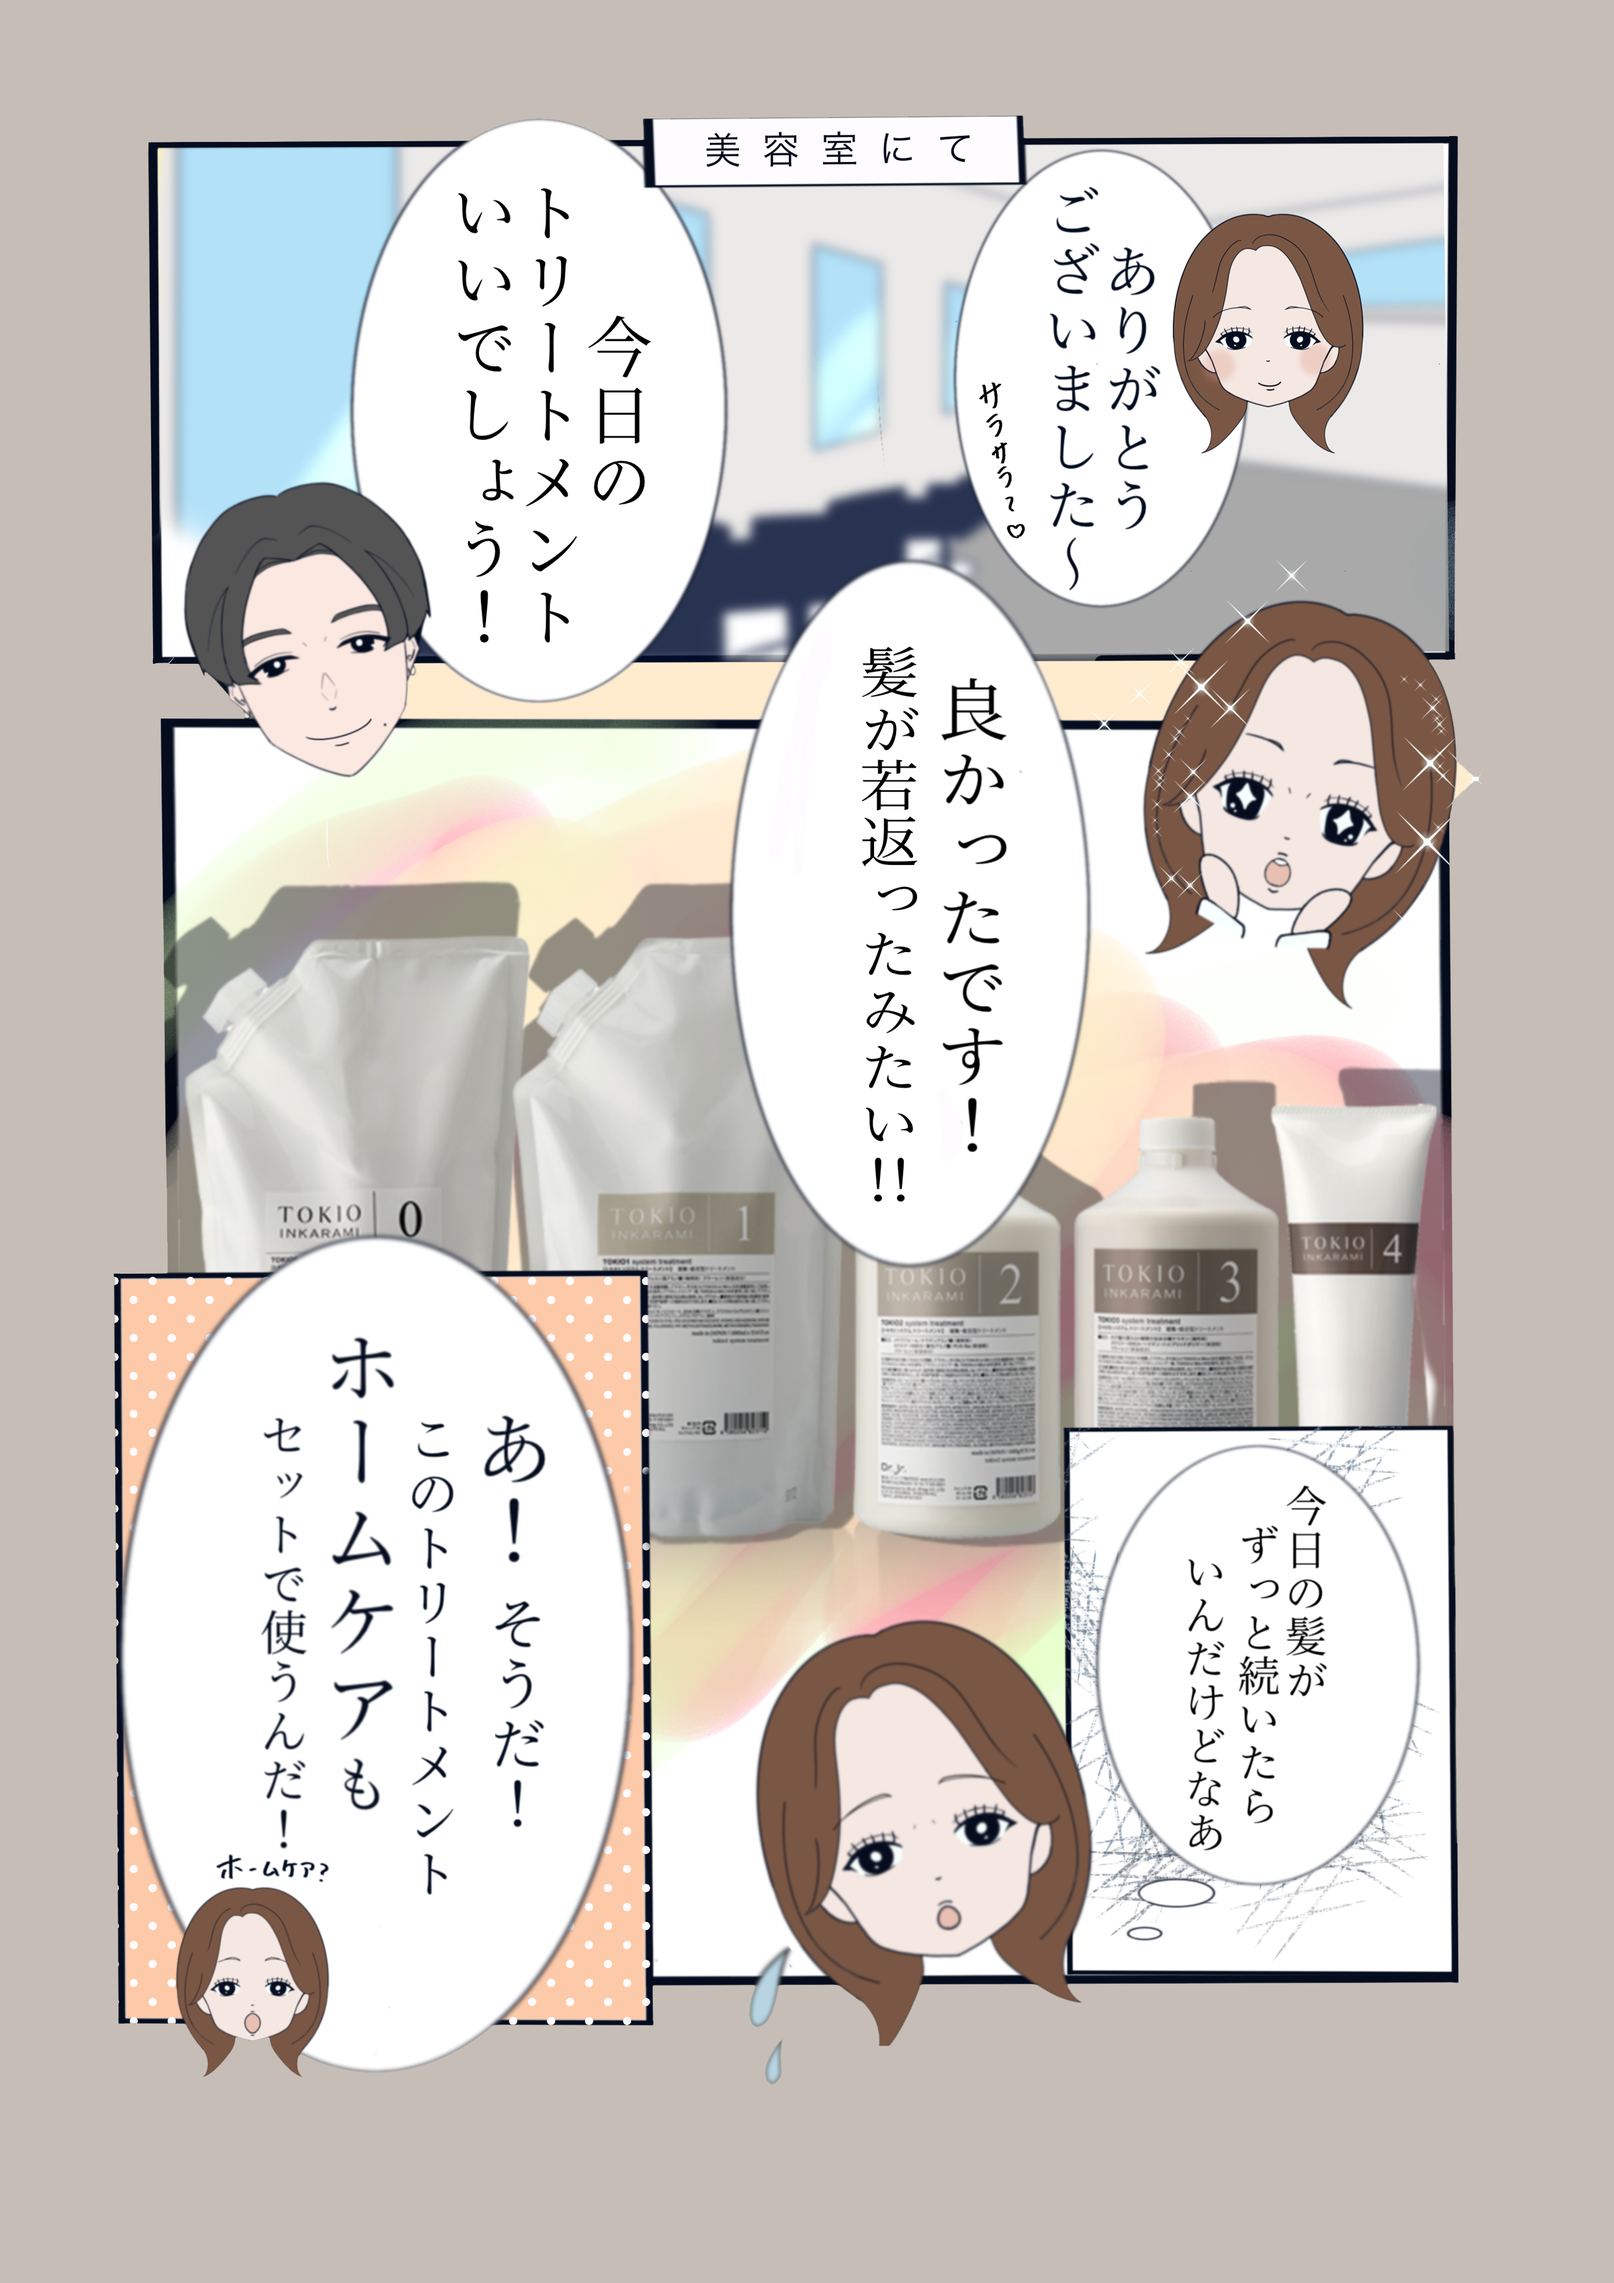
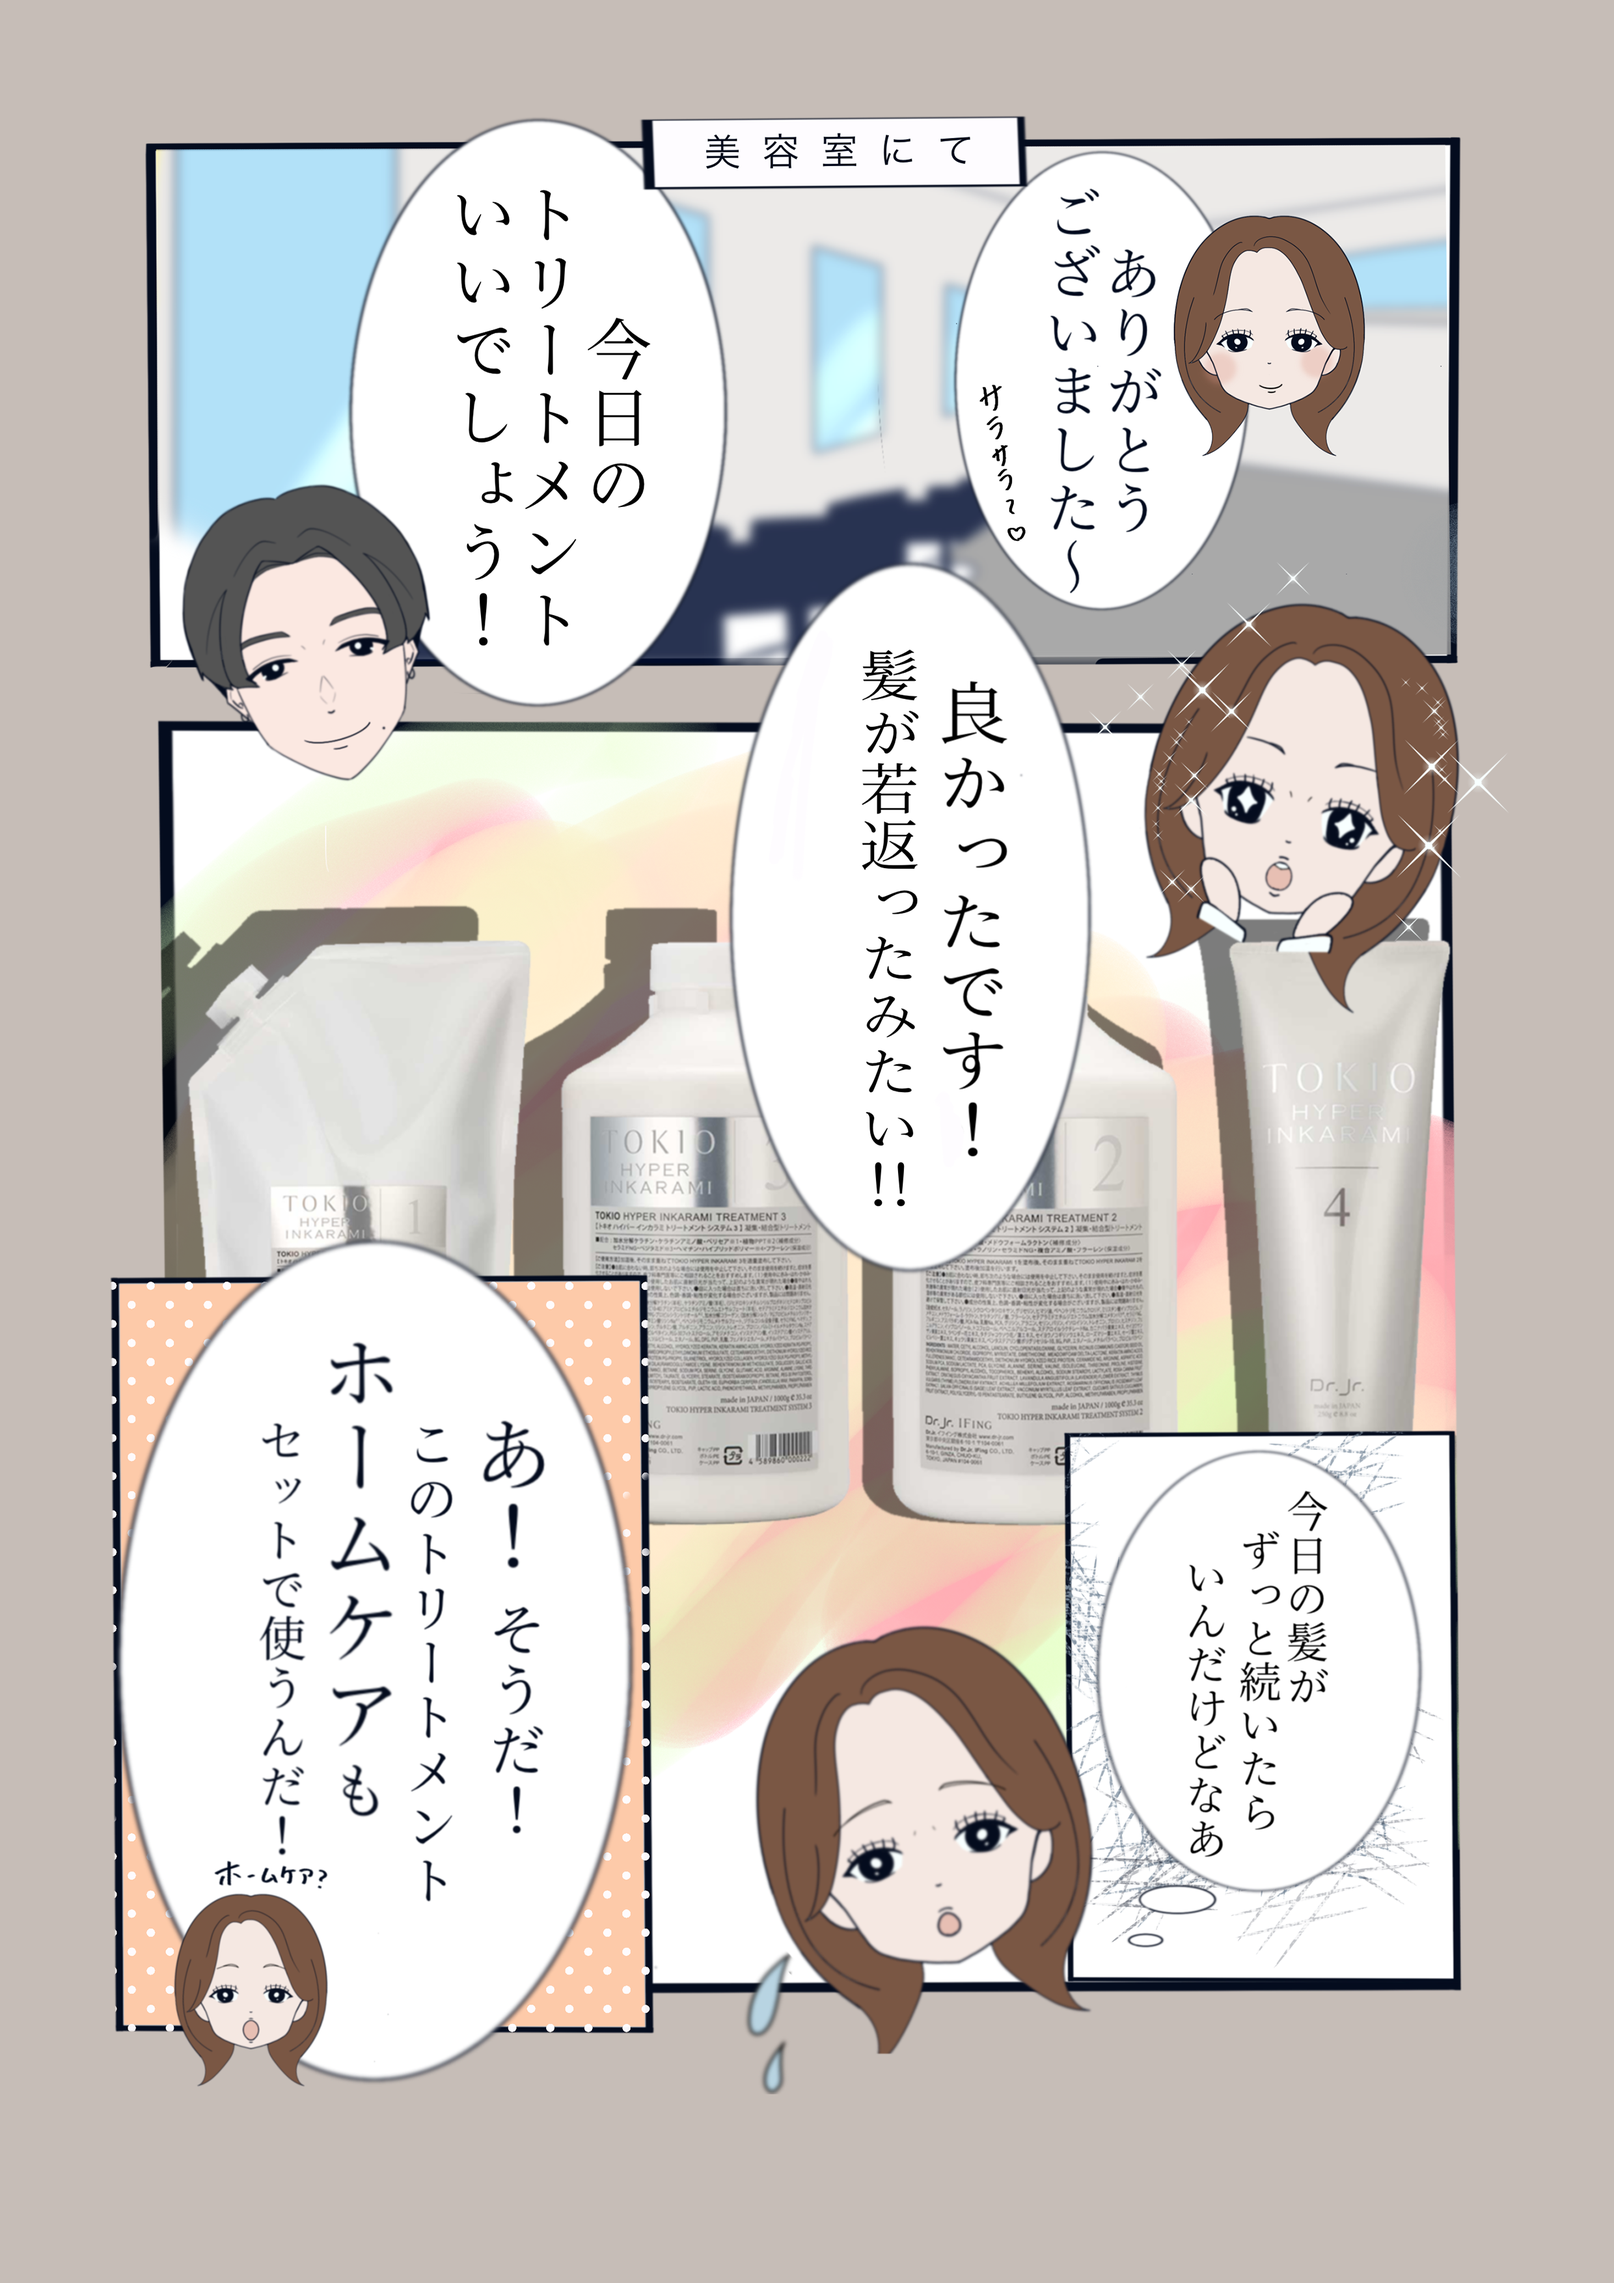
upload

diff --git a/index.html b/index.html
@@ -359,7 +359,7 @@
                         <h3 v-html="topMessage2"></h3>
                         <h3 v-html="topMessage3"></h3>
                         <div class="row pics">
-                            <div class="col-6 col-sm-6" v-for="img in images">
+                            <div class="col-sm-6 offset-sm-3 col-10 offset-1" v-for="img in images">
                                 <img :src="img.imgURL" class="img-fluid" alt="img.alt">
                             </div>
                         </div>

diff --git a/js/app.js b/js/app.js
@@ -178,7 +178,7 @@ var vm = new Vue({
     topMessage3: 'ご自宅で、サロンケアをするという新発想で、<br>新しいヘアケアの常識をご提案します。',
     images: [
       {imgURL: 'images/tokio_bg001.png', alt: 'TOKIO インカラミ'},
-      {imgURL: 'images/tokio_bg002.png', alt: 'TOKIO インカラミ'},
+      // {imgURL: 'images/tokio_bg002.png', alt: 'TOKIO インカラミ'},
     ]
   }
 });

diff --git a/js/topSection.js b/js/topSection.js
@@ -7,7 +7,7 @@ var vm = new Vue({
   data: {
     message1: '選ばれたサロンでしか手に入らない',
     message2: '専用集中ケアパック',
-    message3: 'TOKIO HOME<br>3つのPoint',
+    message3: 'TOKIO HYPER HOME<br>3つのPoint',
     mainPoints: [
       {
         ptNum: "Point 1",
